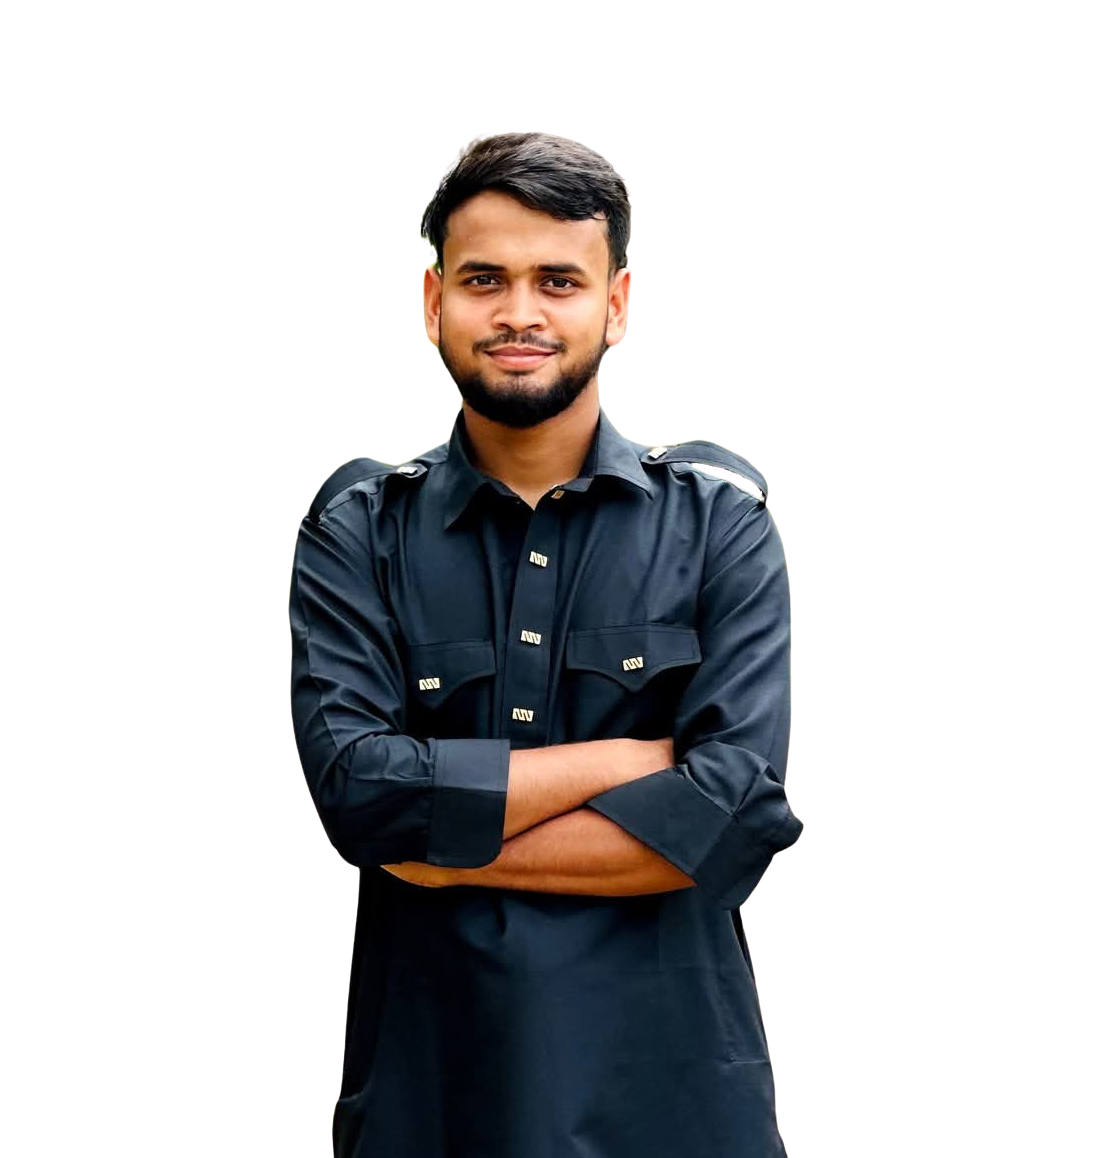
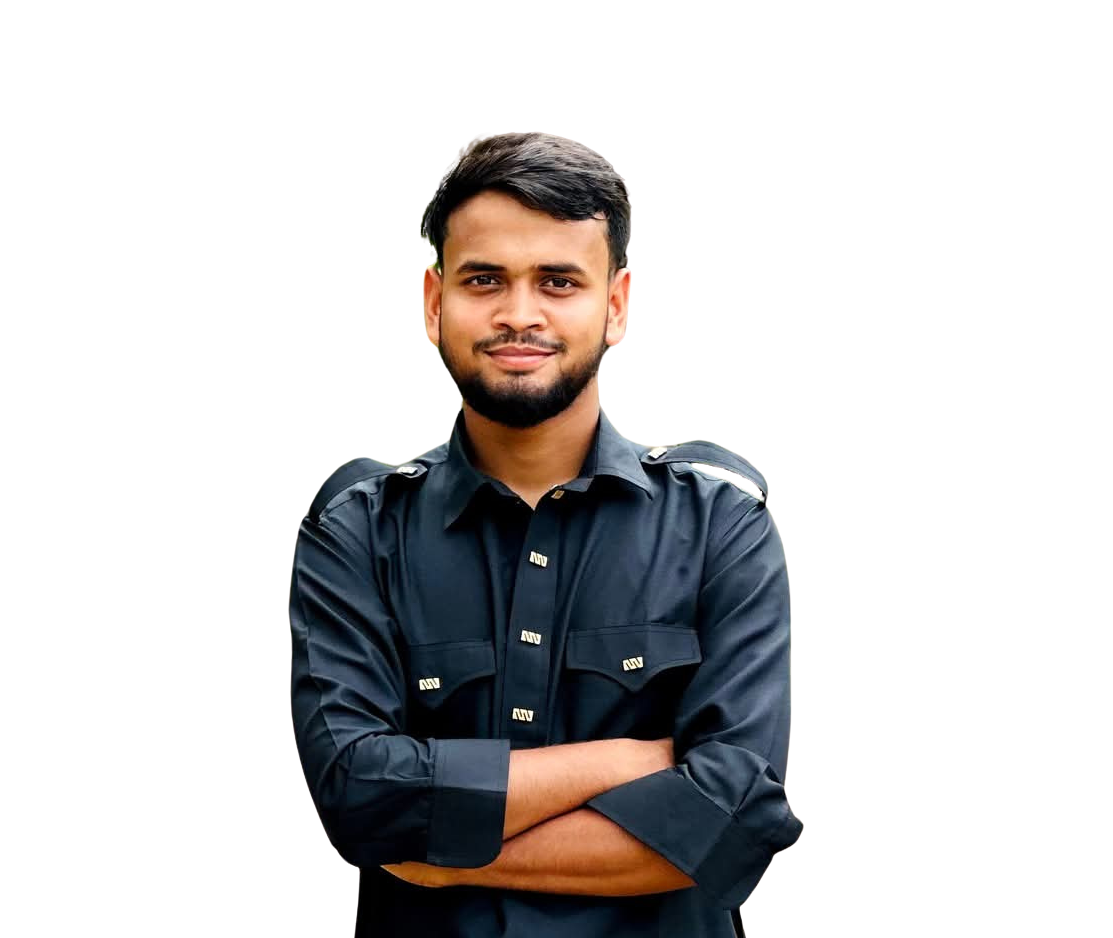
fix: shahin photo updated

Changed region(s): [[0.2444, 0.0928, 0.7332, 1.0]]

diff --git a/src/data/committee.ts b/src/data/committee.ts
@@ -47,7 +47,7 @@ export const committeeMembers: CommitteeMember[] = [
     nameBn: "শাহিন আলম শুভ",
     roleEn: "Vice President",
     roleBn: "সহ-সভাপতি",
-    image: "/images/committee/shahin.jpeg",
+    image: "/images/committee/shahin.png",
     isKeyLeader: true,
   },
   {
